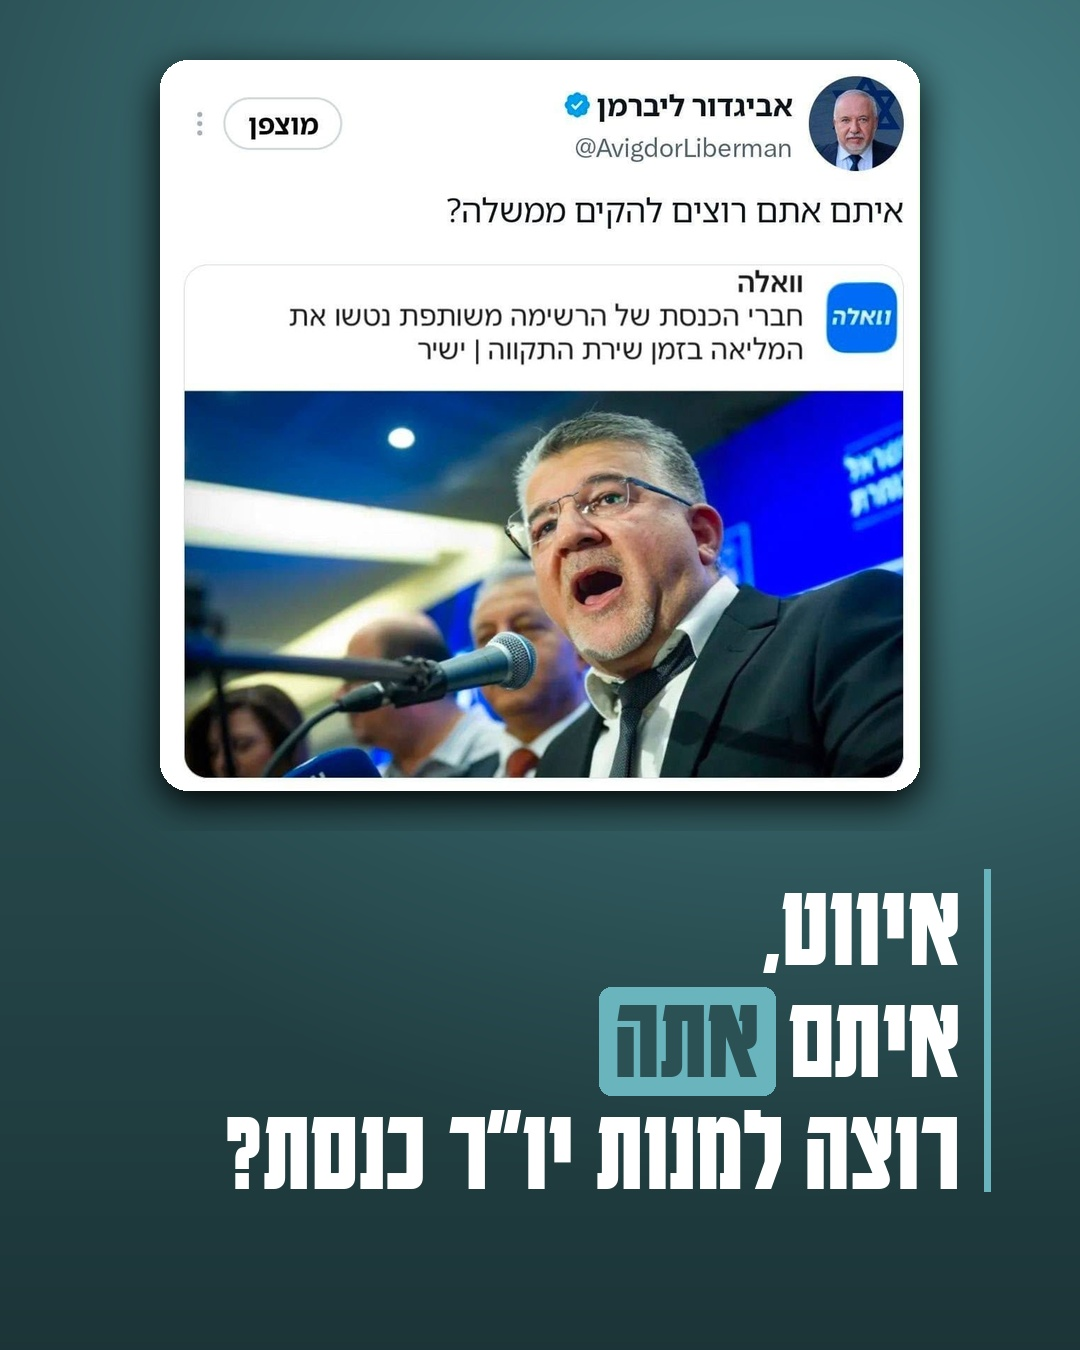
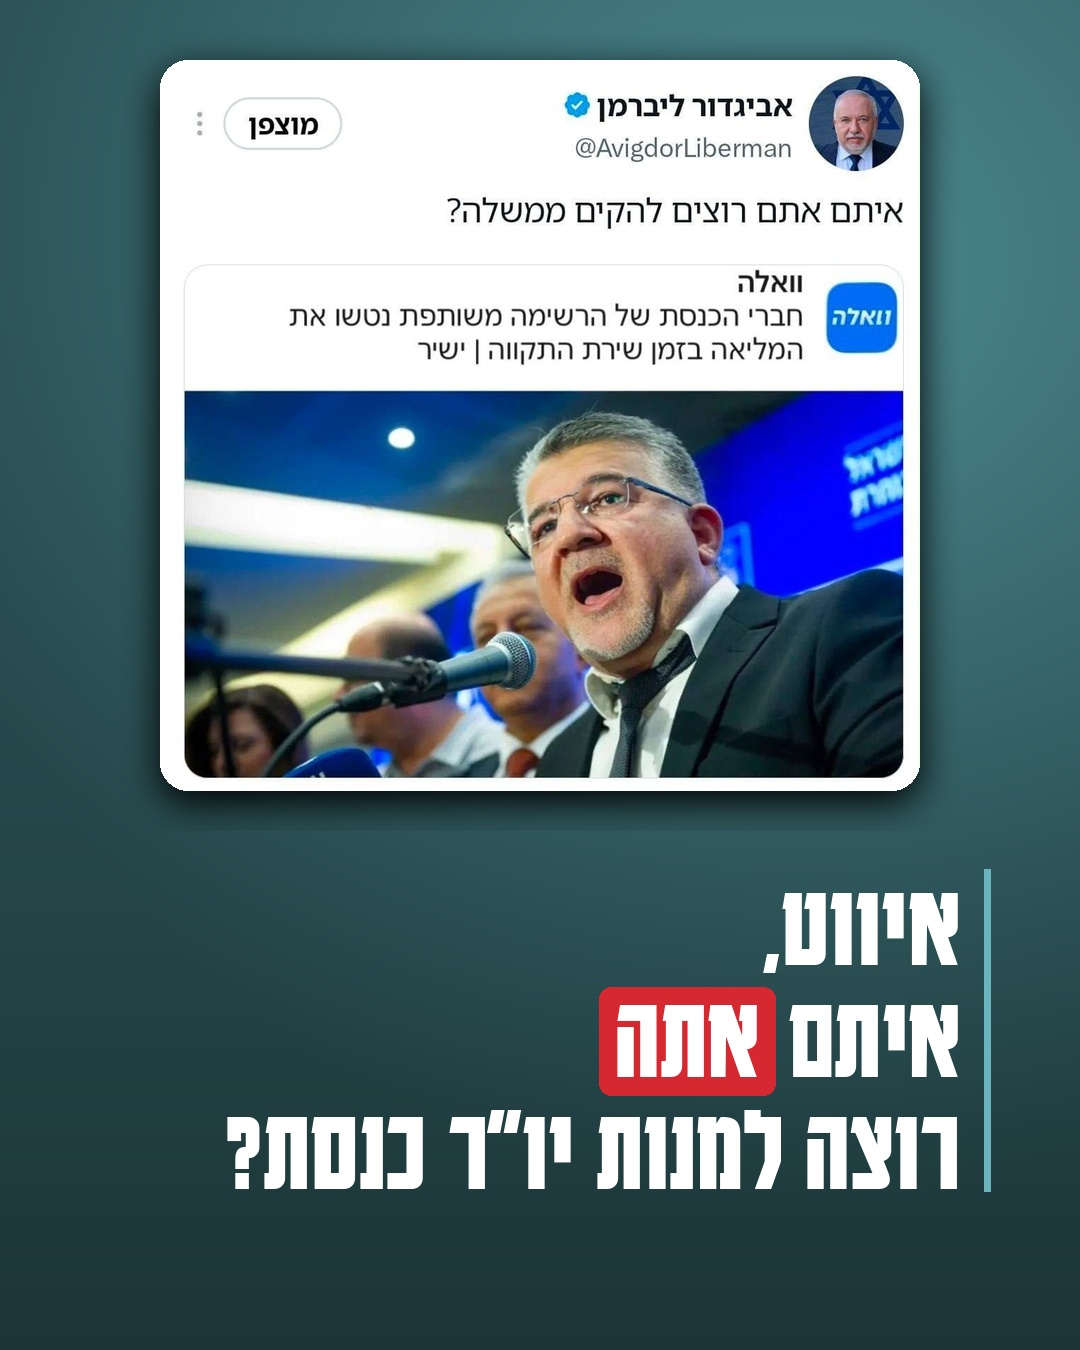
Ivet post: red highlight on 'אתה' (user request)
Claude-Session: https://claude.ai/code/session_01RS3QK6pAd3YhyAuXZSJjH1

Changed region(s): [[0.55, 0.7156, 0.7333, 0.84]]

diff --git a/content-kit/hatzionut-hadatit/2026-11-post-ivet-knesset-speaker/make.py b/content-kit/hatzionut-hadatit/2026-11-post-ivet-knesset-speaker/make.py
@@ -22,6 +22,6 @@ d.text((R - 30, y), 'איווט,', font=F(KB, 120), fill=(255, 255, 255), anchor
 f = F(KB, 120); a = 'איתם '; aw = d.textlength(a, font=f, direction='rtl'); y2 = y + 112
 d.text((R - 30, y2), a, font=f, fill=(255, 255, 255), anchor='ra', direction='rtl')
 b = 'אתה'; bw = d.textlength(b, font=f, direction='rtl'); bx = R - 30 - aw
-d.rounded_rectangle((bx - bw - 22, y2 + 14, bx + 10, y2 + 122), 12, fill=LT); d.text((bx - 6, y2), b, font=f, fill=DEEP, anchor='ra', direction='rtl')
+d.rounded_rectangle((bx - bw - 22, y2 + 14, bx + 10, y2 + 122), 12, fill=(214, 40, 48)); d.text((bx - 6, y2), b, font=f, fill=(255, 255, 255), anchor='ra', direction='rtl')
 d.text((R - 30, y2 + 112), 'רוצה למנות יו״ר כנסת?', font=f, fill=(255, 255, 255), anchor='ra', direction='rtl')
 im.convert('RGB').save(HERE + '/post.jpg', quality=95); print(y2 + 112 + 120)
